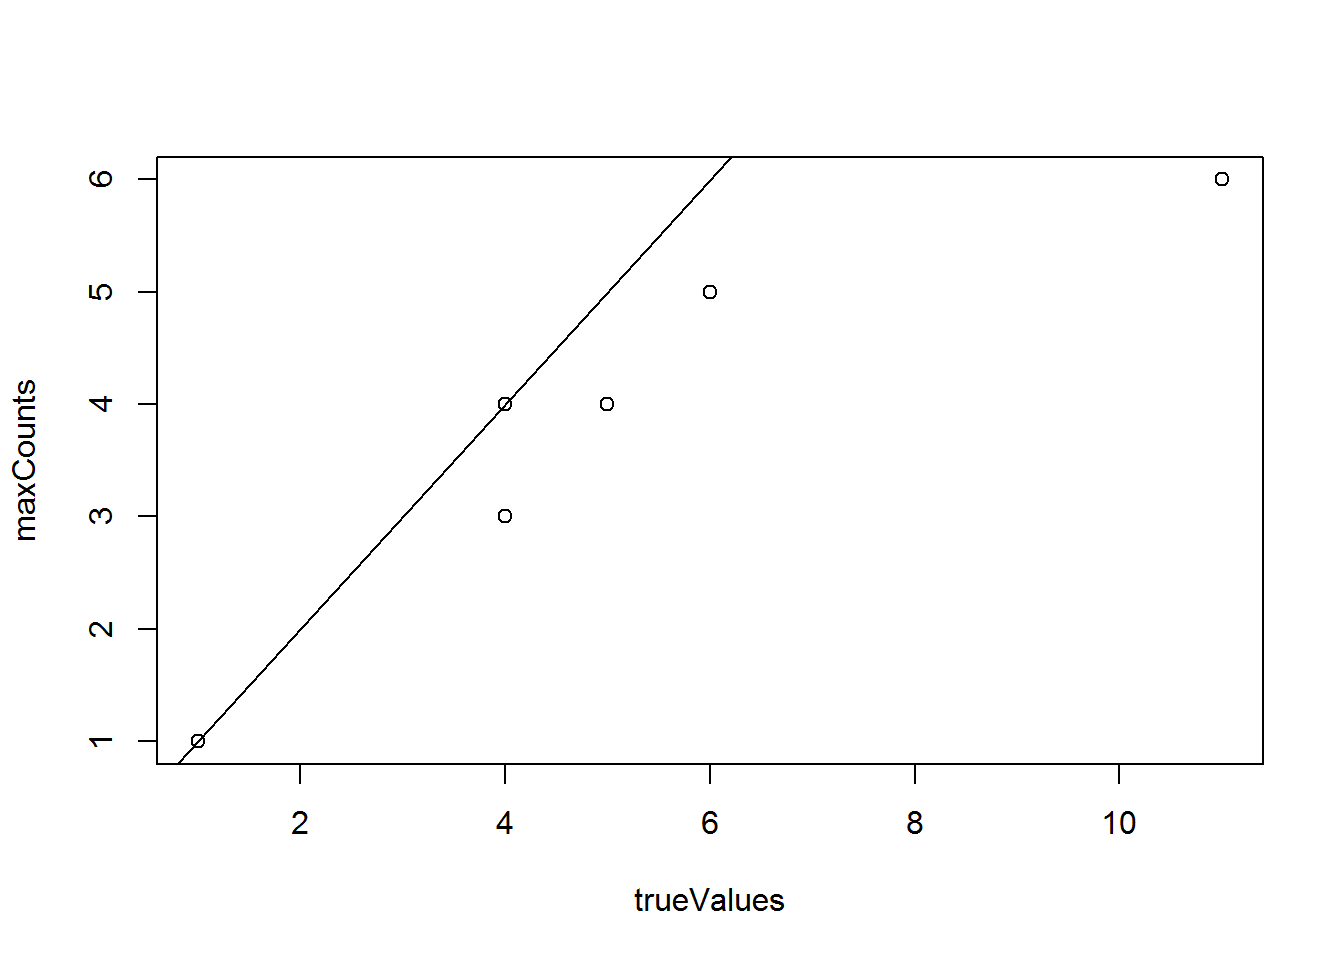
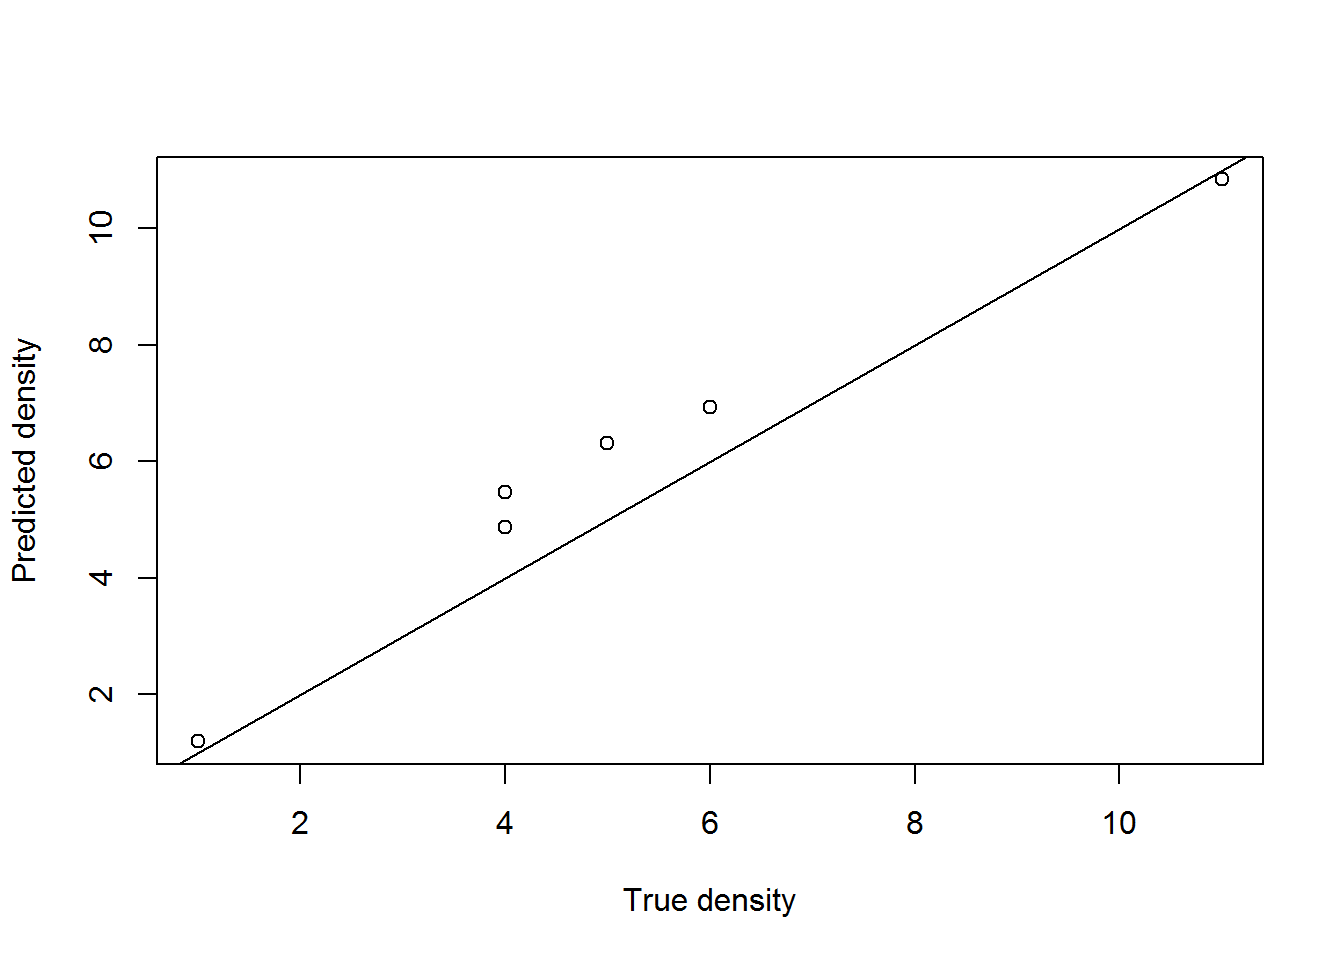
some pre class 18 fixes

diff --git a/docs/Class-18.html b/docs/Class-18.html
@@ -533,8 +533,53 @@ maxCounts</code></pre>
 <pre class="r"><code>trueValues&lt;- c(4, 5, 6, 4, 11, 1)
 plot(x=trueValues,y=maxCounts)
 abline(0,1) # add a 1:1 line</code></pre>
-<p><img src="Class-18_files/figure-html/unnamed-chunk-9-1.png" width="672" /> Well that is no good! We definitely underestimated the true density, which if you can think about it in terms of making a decision where the best decision depends on the number of critters out there, underestimating abundance or density can result in mismanagement and potentially wasting resources. Recall the state dependent decision we talked about in class 17? If you read the the literature a various blog posts about the concept of “statistical machismo” (see <a href="https://dynamicecology.wordpress.com/2012/09/11/statistical-machi%20smo/">here</a> arguing that detection probability is unimportant if you carefully control sampling to minimize bias. Well one unstated component to the debate is how we used estimates to make decisions and having unbiased estimates is important when you have state dependent decisions to make! This is the difference between estimating states and estimating effects.</p>
+<p><img src="Class-18_files/figure-html/unnamed-chunk-8-1.png" width="672" /></p>
+<p>Well that is no good! We definitely underestimated the true density, which if you can think about it in terms of making a decision where the best decision depends on the number of critters out there, underestimating abundance or density can result in mismanagement and potentially wasting resources. Recall the state dependent decision we talked about in class 17? If you read the the literature a various blog posts about the concept of “statistical machismo” (see <a href="https://dynamicecology.wordpress.com/2012/09/11/statistical-machi%20smo/">here</a> arguing that detection probability is unimportant if you carefully control sampling to minimize bias. Well one unstated component to the debate is how we used estimates to make decisions and having unbiased estimates is important when you have state dependent decisions to make! This is the difference between estimating states and estimating effects.</p>
 <p>As it relates to a study area, the <em>N</em>-mixture model may give the ability to estimate the density of hard to capture critters and the ability to compare among habitats. The design is not that different from what would occur for typical fishery or wildlife surveys, sample sites are randomly selected within an habitat and then repeated sampling is conducted to get the count history.</p>
+<div id="detection-probability-of-popcorn-kernels" class="section level3">
+<h3><span class="header-section-number">2.1.1</span> Detection probability of popcorn kernels</h3>
+<p>Now what you have all been waiting for… how bad or good did we do? Below is code to fit an <em>N</em>-mixture model to our data.</p>
+<pre class="r"><code>library(unmarked)</code></pre>
+<pre><code>## Warning: package &#39;unmarked&#39; was built under R version 3.1.3</code></pre>
+<pre><code>## Loading required package: reshape</code></pre>
+<pre><code>## Loading required package: lattice</code></pre>
+<pre><code>## Warning: package &#39;lattice&#39; was built under R version 3.1.3</code></pre>
+<pre><code>## Loading required package: Rcpp</code></pre>
+<pre><code>## Warning: package &#39;Rcpp&#39; was built under R version 3.1.3</code></pre>
+<pre class="r"><code>data &lt;- unmarkedFramePCount(y = ourData)
+
+# ~DETECTION ~ ABUNDANCE
+fit &lt;- pcount(~1 ~ 1, # P THEN LAMBDA
+    data=data, 
+    K=50) # SET THIS HIGHER THAN YOUR EXPECTED ABUNDANCE
+summary(fit)</code></pre>
+<pre><code>## 
+## Call:
+## pcount(formula = ~1 ~ 1, data = data, K = 50)
+## 
+## Abundance (log-scale):
+##  Estimate    SE    z  P(&gt;|z|)
+##      1.78 0.275 6.48 9.44e-11
+## 
+## Detection (logit-scale):
+##  Estimate   SE     z P(&gt;|z|)
+##    -0.694 0.34 -2.04  0.0411
+## 
+## AIC: 292.0911 
+## Number of sites: 6
+## optim convergence code: 0
+## optim iterations: 26 
+## Bootstrap iterations: 0</code></pre>
+<pre class="r"><code>plogis(coef(fit)[2])</code></pre>
+<pre><code>##    p(Int) 
+## 0.3332116</code></pre>
+<pre class="r"><code># estimates of N
+N_hat&lt;- bup(ranef(fit)) # s4 class
+plot(trueValues,N_hat, xlab=&quot;True density&quot;, ylab=&quot;Predicted density&quot;)
+abline(0,1)# a 1:1 line</code></pre>
+<p><img src="Class-18_files/figure-html/unnamed-chunk-9-1.png" width="672" /></p>
+<p>Well I’ll be, that looks much better than before!</p>
+</div>
 </div>
 <div id="application-to-estimating-abundance" class="section level2">
 <h2><span class="header-section-number">2.2</span> Application to estimating abundance</h2>
